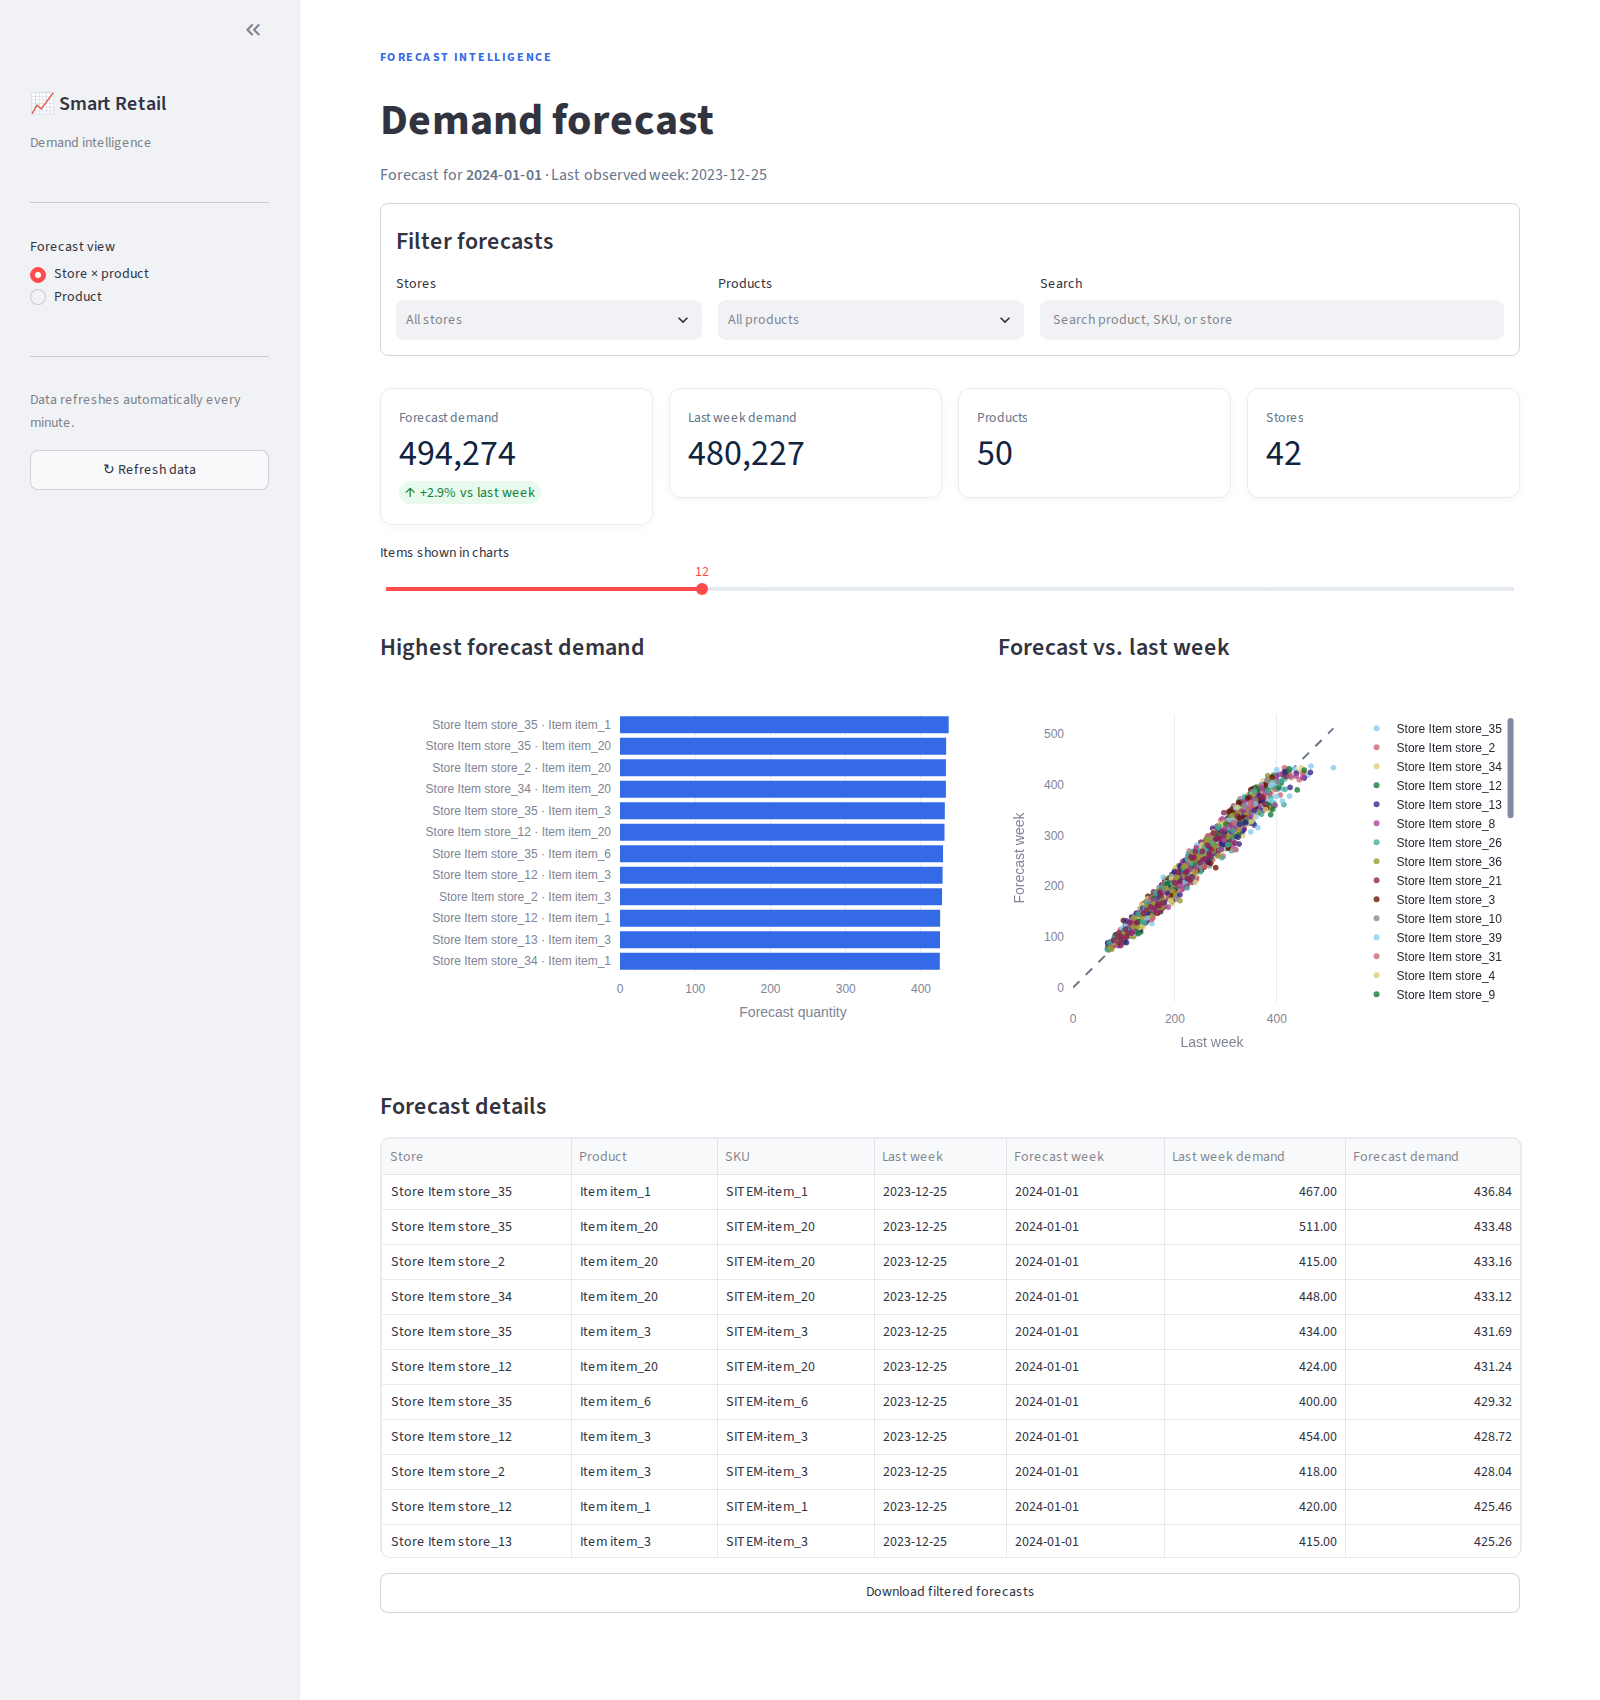
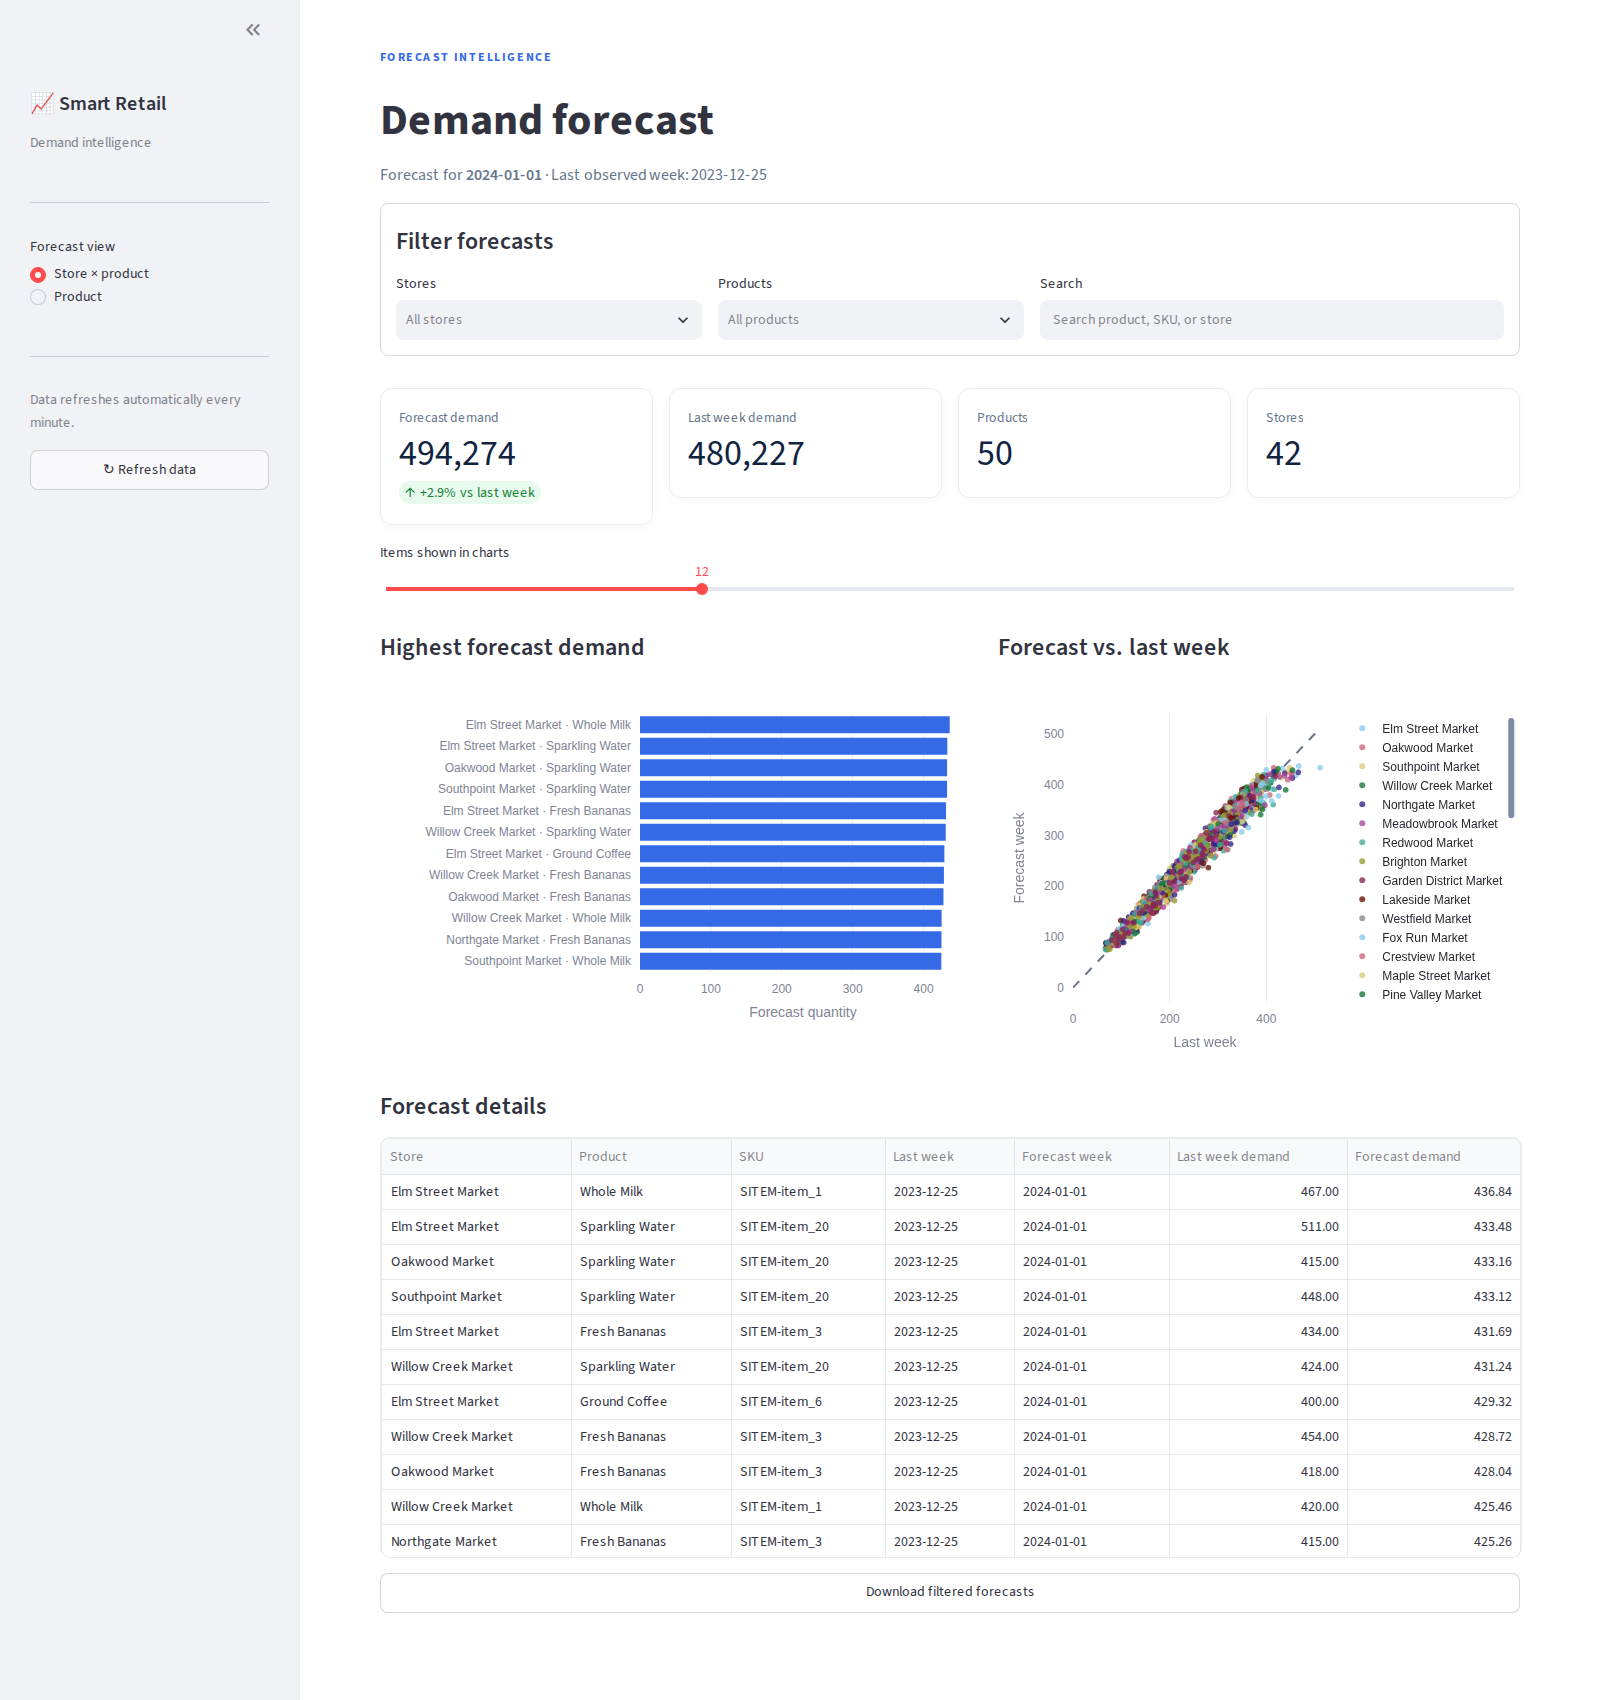
add names

diff --git a/src/display_names.py b/src/display_names.py
@@ -1,0 +1,129 @@
+"""Illustrative, human-readable labels for the anonymous Store Item dataset."""
+
+import re
+
+PRODUCT_NAMES = {
+    f"item_{index}": name
+    for index, name in enumerate(
+        (
+            "Whole Milk",
+            "Sandwich Bread",
+            "Fresh Bananas",
+            "Bottled Water",
+            "Large Eggs",
+            "Ground Coffee",
+            "Pasta",
+            "Jasmine Rice",
+            "Cheddar Cheese",
+            "Plain Yogurt",
+            "Orange Juice",
+            "Chicken Breast",
+            "Laundry Detergent",
+            "Paper Towels",
+            "Toothpaste",
+            "Shampoo",
+            "Olive Oil",
+            "Breakfast Cereal",
+            "Canned Tomatoes",
+            "Sparkling Water",
+            "Fresh Apples",
+            "Frozen Vegetables",
+            "Sliced Turkey",
+            "Salted Butter",
+            "Dish Soap",
+            "Potato Chips",
+            "Dark Chocolate",
+            "Baby Diapers",
+            "Facial Tissues",
+            "Granola Bars",
+            "Frozen Pizza",
+            "Ground Beef",
+            "Dry Dog Food",
+            "Hand Soap",
+            "Trash Bags",
+            "Breakfast Sausage",
+            "Strawberry Jam",
+            "Peanut Butter",
+            "Green Tea",
+            "Energy Drink",
+            "Salad Mix",
+            "Cheddar Crackers",
+            "Tomato Sauce",
+            "Body Lotion",
+            "Aluminum Foil",
+            "Canned Tuna",
+            "Rolled Oats",
+            "Vanilla Ice Cream",
+            "LED Light Bulbs",
+            "AA Batteries",
+        ),
+        start=1,
+    )
+}
+
+STORE_NAMES = {
+    f"store_{index}": name
+    for index, name in enumerate(
+        (
+            "Riverside Market",
+            "Oakwood Market",
+            "Lakeside Market",
+            "Maple Street Market",
+            "Cedar Grove Market",
+            "Hillcrest Market",
+            "Harbor Point Market",
+            "Meadowbrook Market",
+            "Pine Valley Market",
+            "Westfield Market",
+            "Brookside Market",
+            "Willow Creek Market",
+            "Northgate Market",
+            "Fairview Market",
+            "Stonebridge Market",
+            "Greenfield Market",
+            "Parkview Market",
+            "Canyon Ridge Market",
+            "Silver Lake Market",
+            "Summit Plaza Market",
+            "Garden District Market",
+            "Milltown Market",
+            "Sunset Square Market",
+            "Highland Park Market",
+            "Eastwood Market",
+            "Redwood Market",
+            "Clearwater Market",
+            "Springbrook Market",
+            "Bayside Market",
+            "Old Town Market",
+            "Crestview Market",
+            "Forest Hill Market",
+            "Grand Avenue Market",
+            "Southpoint Market",
+            "Elm Street Market",
+            "Brighton Market",
+            "Kingston Market",
+            "Union Square Market",
+            "Fox Run Market",
+            "Central Station Market",
+            "Bluebird Market",
+            "Cloverfield Market",
+        ),
+        start=1,
+    )
+}
+
+
+def display_product_name(sku: object, product_name: object = "") -> str:
+    """Return a demo label for a Store Item SKU, or preserve its source name."""
+    sku_match = re.fullmatch(r"SITEM-(item_\d+)", str(sku))
+    name_match = re.fullmatch(r"Item (item_\d+)", str(product_name))
+    item_id = sku_match.group(1) if sku_match else (
+        name_match.group(1) if name_match else None
+    )
+    return PRODUCT_NAMES.get(item_id, str(product_name))
+
+
+def display_store_name(store_name: object) -> str:
+    """Return a demo label for a Store Item store, or preserve its source name."""
+    match = re.fullmatch(r"Store Item (store_\d+)", str(store_name))
+    return STORE_NAMES.get(match.group(1), str(store_name)) if match else str(store_name)

diff --git a/src/models/predict.py b/src/models/predict.py
@@ -11,6 +11,7 @@ import pandas as pd
 import joblib
 from sqlalchemy import text
 from src.database.connection import get_engine
+from src.display_names import display_product_name
 
 
 def load_strong_models():
@@ -158,7 +159,8 @@ def predict_product(product_id: int):
     print("🔮 تنبؤ أسبوعي (Strong Ensemble)")
     print("=" * 55)
     print(f"Product ID    : {int(r['product_id'])}")
-    print(f"Name          : {str(r['product_name'])[:55]}")
+    name = display_product_name(r["sku"], r["product_name"])
+    print(f"Name          : {name[:55]}")
     print(f"SKU           : {r['sku']}")
     print(f"Last week     : {r['last_week'].date()}")
     print(f"Predict week  : {r['predict_week'].date()}")
@@ -174,6 +176,10 @@ def predict_top(n: int = 10):
     preds = predict_weighted(models, weights, feat[features])
     feat["predicted_quantity"] = np.round(preds, 2)
     feat["last_quantity"] = feat["lag_1"].round(2)
+    feat["product_name"] = [
+        display_product_name(sku, name)
+        for sku, name in zip(feat["sku"], feat["product_name"])
+    ]
     out = feat[
         ["product_id", "product_name", "sku", "last_week", "predict_week",
          "last_quantity", "predicted_quantity"]

diff --git a/tests/test_api_data.py b/tests/test_api_data.py
@@ -7,9 +7,23 @@ from pathlib import Path
 import pandas as pd
 
 from src.api.data import load_forecasts, summarize_forecasts
+from src.display_names import display_product_name, display_store_name
 
 
 class ForecastDataTests(unittest.TestCase):
+    def test_store_item_labels_are_human_readable_and_keep_unknown_names(self):
+        self.assertEqual(
+            display_product_name("SITEM-item_1", "Item item_1"), "Whole Milk"
+        )
+        self.assertEqual(
+            display_product_name("OTHER-123", "A real catalog name"),
+            "A real catalog name",
+        )
+        self.assertEqual(
+            display_store_name("Store Item store_1"), "Riverside Market"
+        )
+        self.assertEqual(display_store_name("Neighborhood Store"), "Neighborhood Store")
+
     def test_loads_and_sorts_store_forecasts(self):
         with tempfile.TemporaryDirectory() as directory:
             path = Path(directory) / "predictions_store_next_week.csv"

diff --git a/src/models/predict_store.py b/src/models/predict_store.py
@@ -17,6 +17,7 @@ import joblib
 from sqlalchemy import text
 
 from src.database.connection import get_engine
+from src.display_names import display_product_name, display_store_name
 from src.models.predict import build_next_week_features
 from src.models.train_weekly import load_and_aggregate_weekly
 
@@ -69,6 +70,11 @@ def predict_all() -> pd.DataFrame:
     out = feat.merge(products, on="product_id", how="left").merge(
         stores, on="store_id", how="left"
     )
+    out["product_name"] = [
+        display_product_name(sku, name)
+        for sku, name in zip(out["sku"], out["product_name"])
+    ]
+    out["store_name"] = out["store_name"].map(display_store_name)
     out = out[
         [
             "store_id",

diff --git a/README.md b/README.md
@@ -106,6 +106,11 @@ screenshot below shows the store × product view.
 
 ![Smart Retail demand forecast dashboard](docs/images/dashboard.png)
 
+The Store Item dataset contains anonymous item and store IDs rather than
+verified catalog names. The readable product and store names shown here are
+fictional demo labels mapped to those IDs; replace the mapping in
+`src/display_names.py` with your catalog's actual names when available.
+
 The dashboard includes:
 
 - Forecast and last-week demand KPIs, with percentage change.
